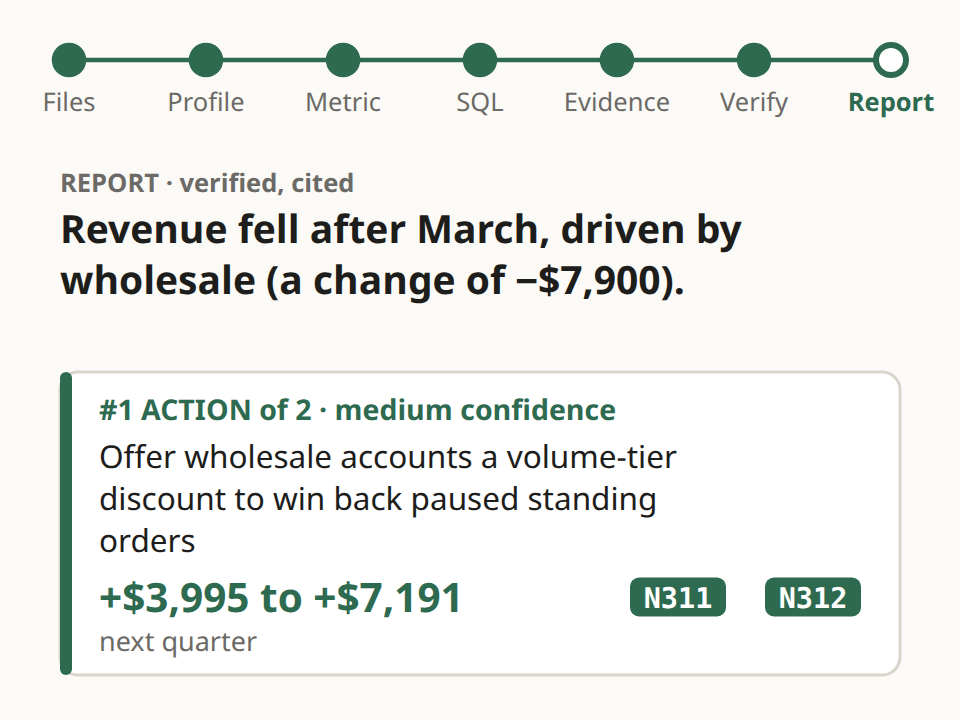
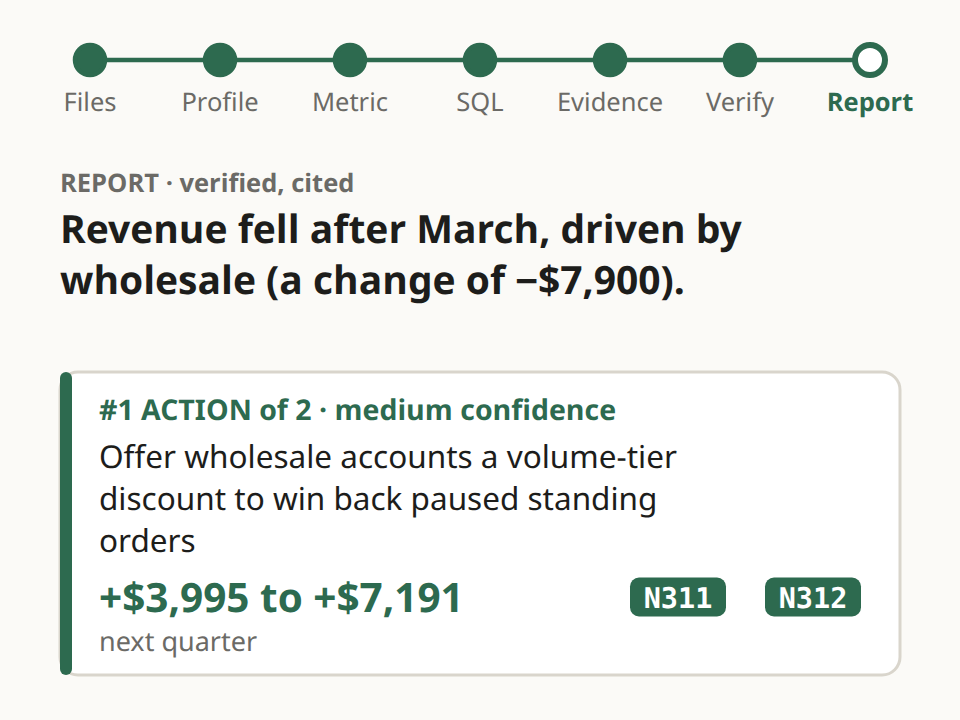
fix(readme): keep the pipeline rail labels off the edge with CI fonts
The bold active label overran the canvas edge with DejaVu (CI's fallback
font). Inset the rail and re-record; AA_FRAMES_DIR moves the frame PNGs off
a small /tmp.

diff --git a/scripts/readme-assets/pipeline-gif.ts b/scripts/readme-assets/pipeline-gif.ts
@@ -15,7 +15,8 @@ import { PIPELINE_FPS, PIPELINE_SCALE, pipelineInputsHash, ROOT } from "./pipeli
 
 const OUT = join(ROOT, "docs/assets/readme");
 const data = JSON.parse(readFileSync(join(OUT, "pipeline.json"), "utf8")) as PipelineData;
-const work = mkdtempSync(join(tmpdir(), "aa-pipeline-gif-"));
+// Frames are a few hundred MB of PNGs; AA_FRAMES_DIR moves them off a small /tmp.
+const work = mkdtempSync(join(process.env.AA_FRAMES_DIR ?? tmpdir(), "aa-pipeline-gif-"));
 const frames = Math.round(LOOP_SECONDS * PIPELINE_FPS);
 const sizes: Record<string, number> = {};
 

diff --git a/apps/docs/src/components/pipeline-scene.ts b/apps/docs/src/components/pipeline-scene.ts
@@ -183,7 +183,8 @@ function chip(x: number, y: number, id: string, local: number, at: number, cls =
 }
 
 const RAIL_Y = 40;
-const railX = (i: number) => 46 + i * ((WIDTH - 92) / (RAIL.length - 1));
+// Inset so the bold active label stays off the edge even with wider fallback fonts (DejaVu on CI).
+const railX = (i: number) => 60 + i * ((WIDTH - 120) / (RAIL.length - 1));
 
 function rail(scene: Scene, local: number): string {
   const lines = RAIL.slice(1).map((_, i) => {
